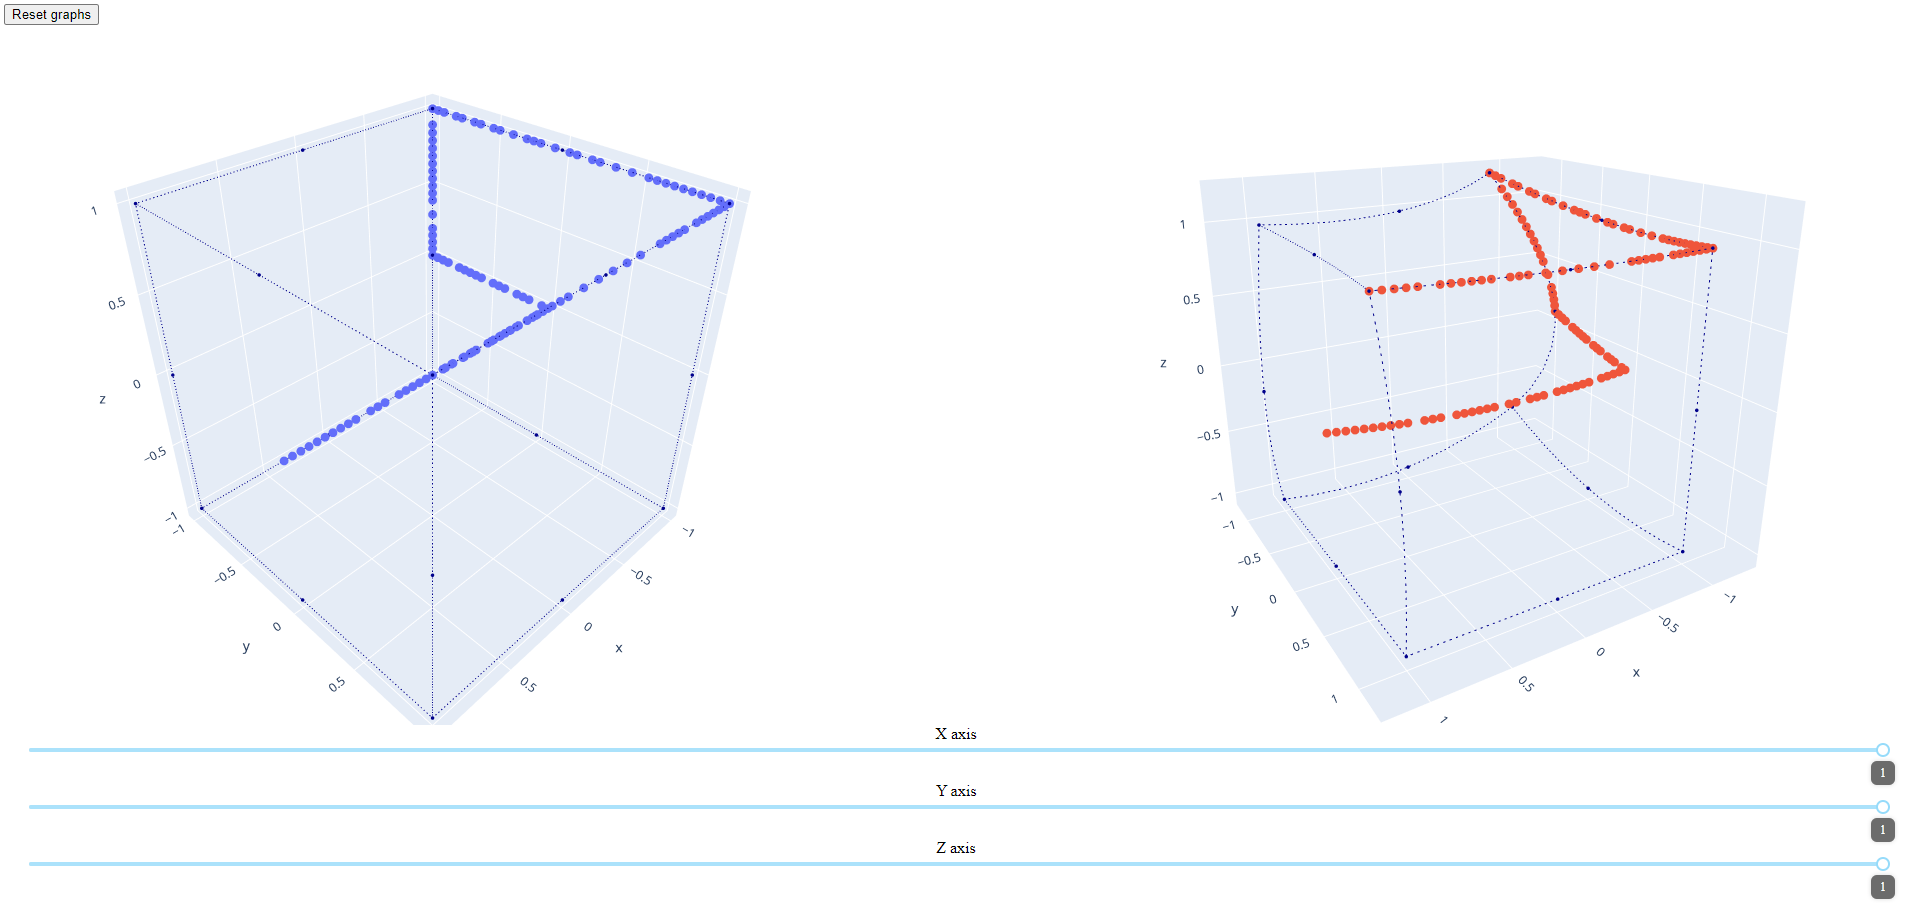
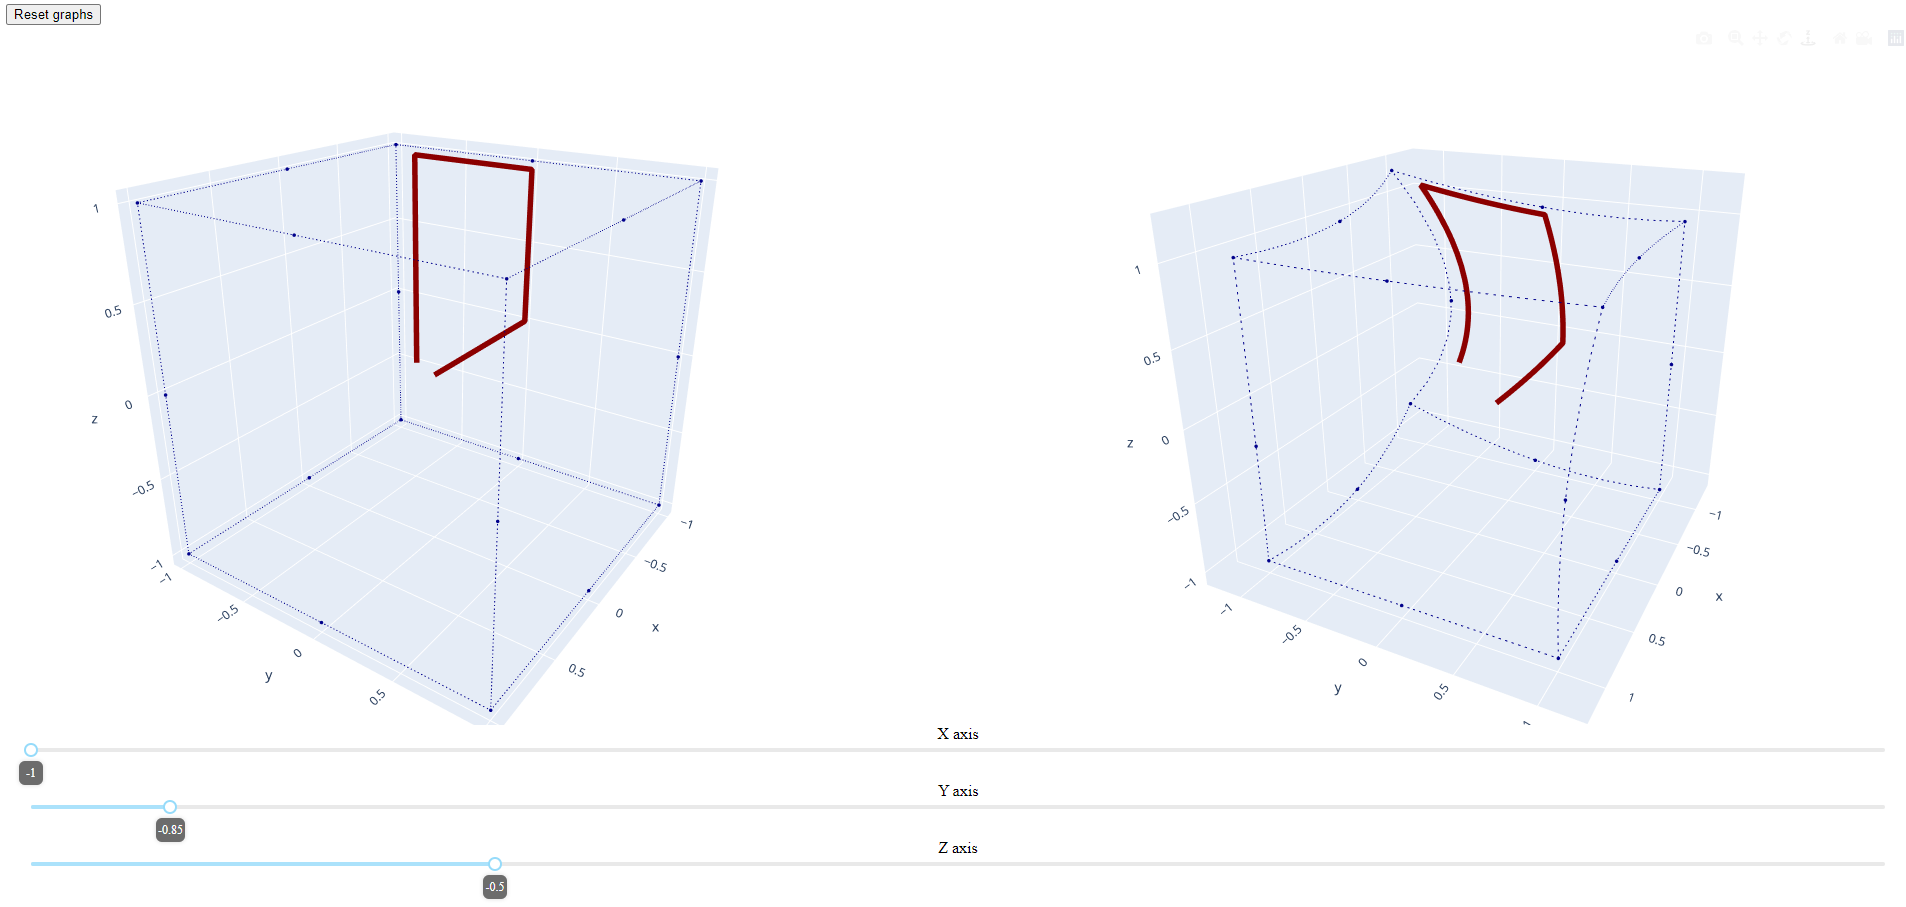
line change

diff --git a/app_8_nodes.py b/app_8_nodes.py
@@ -35,10 +35,8 @@ fig = make_subplots(
 
 fig.add_trace(
     go.Scatter3d(x=[0.0], y=[0.0], z=[0.0],
-        mode='markers', 
-        marker=dict(
-            size=5
-        ),
+        mode='lines',
+        line=dict(color='darkred',width=11),
     ),
     row=1, col=1)
 
@@ -51,10 +49,8 @@ y0 = np.sum(y_v*N)
 z0 = np.sum(z_v*N)
 fig.add_trace(
     go.Scatter3d(x=[x0], y=[y0], z=[z0],
-        mode='markers', 
-        marker=dict(
-            size=5
-        ),
+        mode='lines',
+        line=dict(color='darkred',width=11),
     ),
     row=1, col=2)
 
@@ -74,9 +70,7 @@ for i in range(4):
     fig.add_trace(go.Scatter3d(x=[ksi[ind1], ksi[ind1 + 4]], y=[eta[ind1], eta[ind1 + 4]], z=[zeta[ind1], zeta[ind1 + 4]], **params), 1, 1)
 
 fig.update_layout(
-    #width=1000,
     height=700,
-    #paper_bgcolor="LightSteelBlue",
     margin=dict(
         l=0,
         r=0,

diff --git a/app_20_nodes.py b/app_20_nodes.py
@@ -121,20 +121,16 @@ fig = make_subplots(
 
 fig.add_trace(
     go.Scatter3d(x=[0.0], y=[0.0], z=[0.0],
-        mode='markers', 
-        marker=dict(
-            size=5
-        ),
+        mode='lines',
+        line=dict(color='darkred',width=11),
     ),
     row=1, col=1)
 
 x0, y0, z0 = form(0, 0, 0)
 fig.add_trace(
     go.Scatter3d(x=[x0], y=[y0], z=[z0],
-        mode='markers', 
-        marker=dict(
-            size=5
-        ),
+        mode='lines',
+        line=dict(color='darkred',width=11),
     ),
     row=1, col=2)
 
@@ -267,4 +263,4 @@ def reset_sliders(btn1):
     return 0, 0, 0
 
 if __name__ == '__main__':
-    app.run_server()
+    app.run_server(debug=DEBUG, port=PORT)
